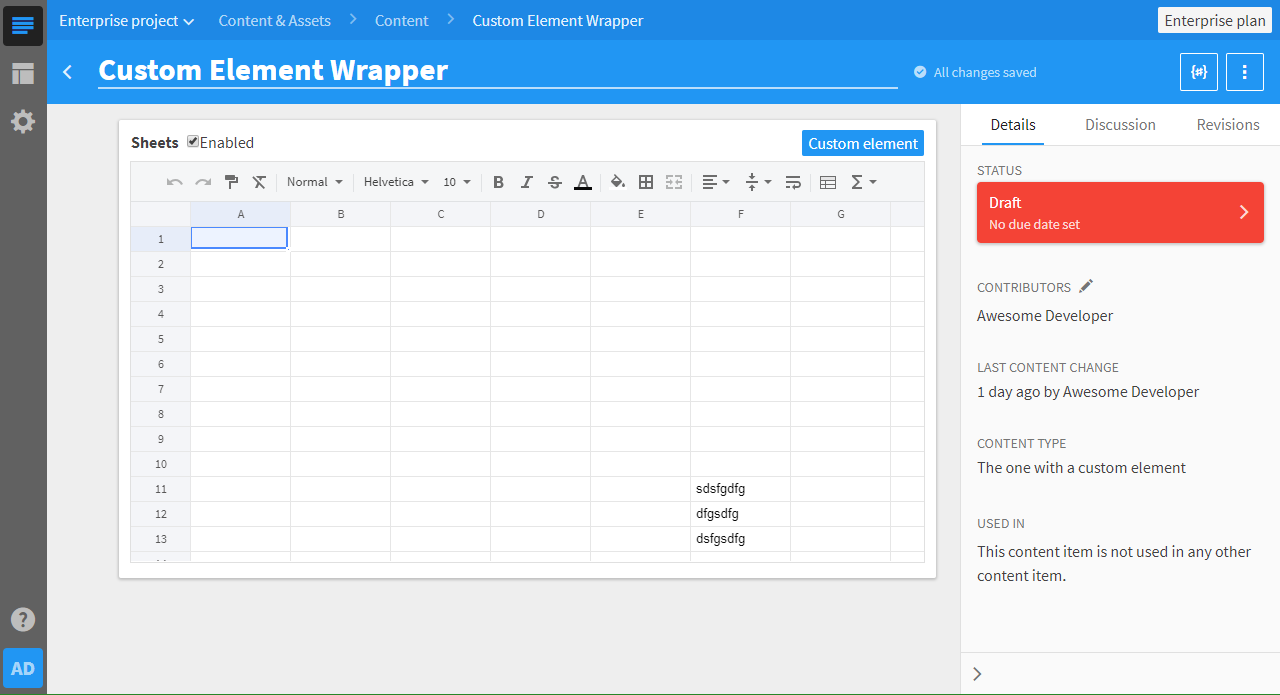
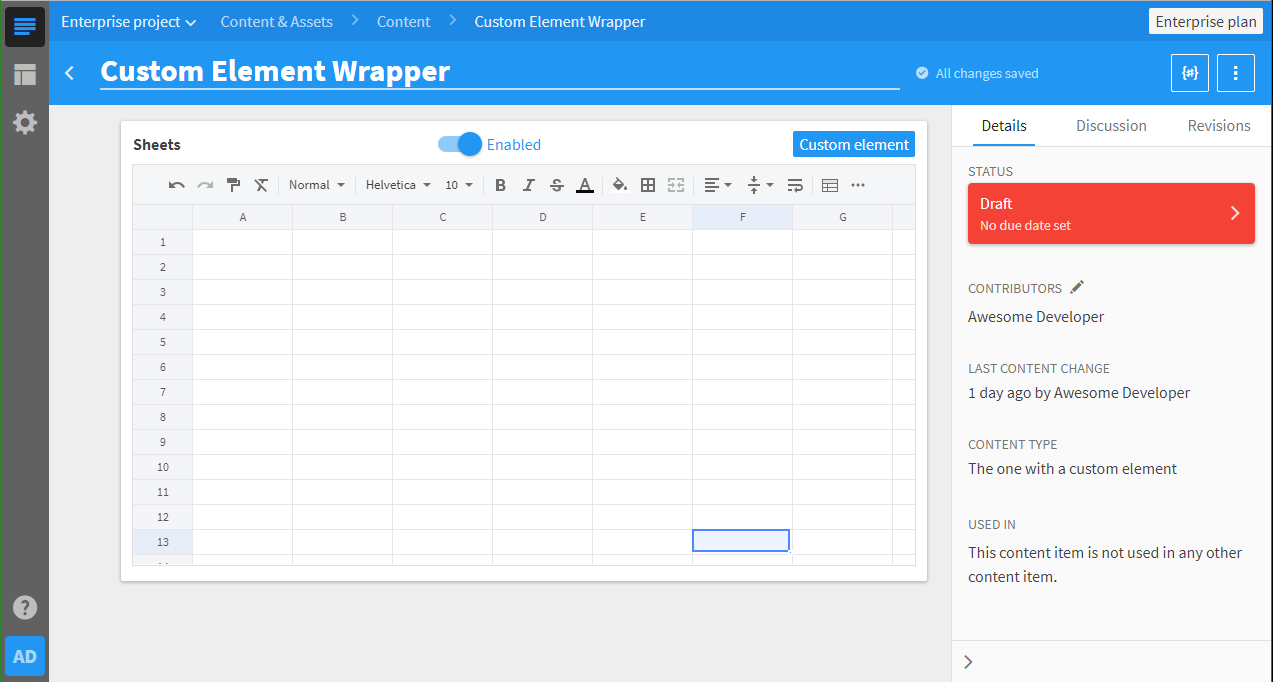
Upgrade design of CE enabled switcher.

diff --git a/client/custom-element-wrapper/bundle.css b/client/custom-element-wrapper/bundle.css
@@ -7349,6 +7349,13 @@ input[type=button].btn-block, input[type=reset].btn-block, input[type=submit].bt
 }
 
 
+.content-item-element__item-metadata {
+	display: flex;
+	justify-content: space-between;
+	align-items: center;
+}
+
+
 .content-item-element {
 	background-color: #fff;
 	border-radius: 2px;
@@ -7438,8 +7445,6 @@ input[type=button].btn-block, input[type=reset].btn-block, input[type=submit].bt
 
 .content-item-element__label {
 	display: inline;
-	margin-right: 8px;
-	margin-bottom: 8px;
 	font-weight: 700;
 	color: #424242
 }
@@ -18441,6 +18446,11 @@ input[type=checkbox]:disabled {
 .switch-wrapper {
 	display: flex;
 	align-items: center
+}
+
+
+.switch-wrapper--inline {
+	display: inline-flex;
 }
 
 
